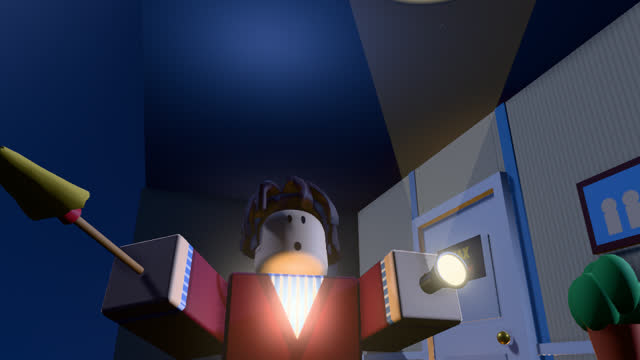
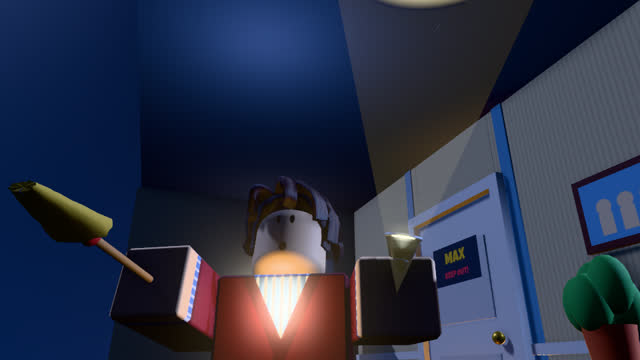
ch06: end hold fix (closet at a crack, Dad 3/4, broom clear of his face, torch up at the hatch)

diff --git a/roblox-shorts-studio/projects/i-secretly-lived-in-my-enemys-house/web/ch06.js b/roblox-shorts-studio/projects/i-secretly-lived-in-my-enemys-house/web/ch06.js
@@ -74,7 +74,7 @@ const M = {
   linenLily: () => hw(-16.95, -1.5, 1.05),         // in front of / below Skye
   stairs: () => K.mark('hallway', 'dad_enter'),
   dadMid: () => hw(4.0, 0.8, -1.07),
-  hatch: () => hw(-5.6, 1.4, 1.45),                 // just past the hatch, facing it (+x) and looking up; the closet behind him
+  hatch: () => hw(-5.6, 1.4, 1.1),                  // just past the hatch, facing it (+x) and looking up; the closet behind him
   mirror: () => { const m = K.mark('bedroom', 'desk_stand'); m.pos.x -= 0.8; return m; },   // facing the mirror, a step back from the desk
 };
 const HATCH_C = () => HO().clone().add(V(-2, 9.6, 0));
@@ -135,7 +135,7 @@ function camMirror(stage, framing, side = -0.35) {
 // Dad from low in front, the hatch above him in frame
 const camHatch = (stage) => fixed(stage, V(2.2, 3.0, 3.6), K.headPos(C.dad).lerp(HATCH_C(), 0.22), 44);
 // last frame: toward the linen-closet gap, Dad in the foreground (3/4) facing the hatch
-const camEnd = (stage) => fixed(stage, V(2.0, 4.0, 9.5), K.headPos(C.dad).lerp(K.headPos(C.skye), 0.62).add(V(0, -0.8, 0)), 34);
+const camEnd = (stage) => fixed(stage, V(2.0, 4.2, 14.0), K.headPos(C.dad).lerp(K.headPos(C.skye), 0.42).add(V(0, -0.9, 0)), 34);
 
 // ---------- arm and head overrides (after playAnim; one arm high at most) ----------
 const _e = new THREE.Euler(), _q = new THREE.Quaternion();
@@ -245,7 +245,7 @@ function hallway(t, idle, sh) {
     if (m.moving) arm(sk, 'L', 1.0, 0.1);            // her hand in Lily's
     if (t >= m.arrive && m.done) { K.playAnim(sk, [[A.idle, idle]]); K.putOn(sk, M.linenSkye()); }
     skFace = 'scared'; chin = 0;
-    linen = t < hide + 0.9 ? 0.75 * smooth((t - hide - 0.1) / 0.3) : 0.75 - 0.35 * smooth((t - hide - 0.9) / 0.4);   // open, they dive in, pulled to a crack (0.4)   // opens, they dive in, pulled to a crack
+    linen = t < hide + 0.9 ? 0.75 * smooth((t - hide - 0.1) / 0.3) : 0.75 - 0.42 * smooth((t - hide - 0.9) / 0.4);   // open, they dive in, pulled to a crack (0.33)
   }
   K.speak(sk, skFace, t, L.said('SKYE'));
   P.torchSkye.userData.chin = chin;
@@ -298,13 +298,14 @@ function hallway(t, idle, sh) {
       if (m.done) {
         K.playAnim(dd, [[A.idle, idle]]); K.putOn(dd, hm);
         const u = smooth((t - m.arrive) / 0.4);
-        headTurn(dd, 0, 0.3 * u); torchUp = 0.45 * u; swordUp = 0.85 * u;   // broom raised (right arm only); torch forward, its beam aimed up at the hatch   // broom held low across, torch up at the hatch
+        headTurn(dd, 0, 0.3 * u); torchUp = 0.25 * u; swordUp = 0.6 * u;   // broom raised forward like a sword (right arm); torch tilted up at the hatch
       }
       dFace = 'determined';
     }
     // broom out in front like a sword (right), raised on "draw the line" / at the hatch; torch (left) forward, up at the hatch
-    arm(dd, 'R', 1.45 + 0.5 * swordUp, 0.05 + 0.5 * Math.max(0, swordUp), 0);   // raised out to the side, clear of his face
+    arm(dd, 'R', 1.45 + 0.5 * swordUp, 0.05, 0);
     arm(dd, 'L', 1.35 + 0.85 * torchUp, 0.12, 0);
+    K.hold(P.torchDad, dd, 'L', 'palm', P.dadAim ? { aim: HATCH_C() } : {});   // at the hatch the torch itself points up at it
     K.speak(dd, dFace, t, L.said('DAD'));
   }
   return linen;
